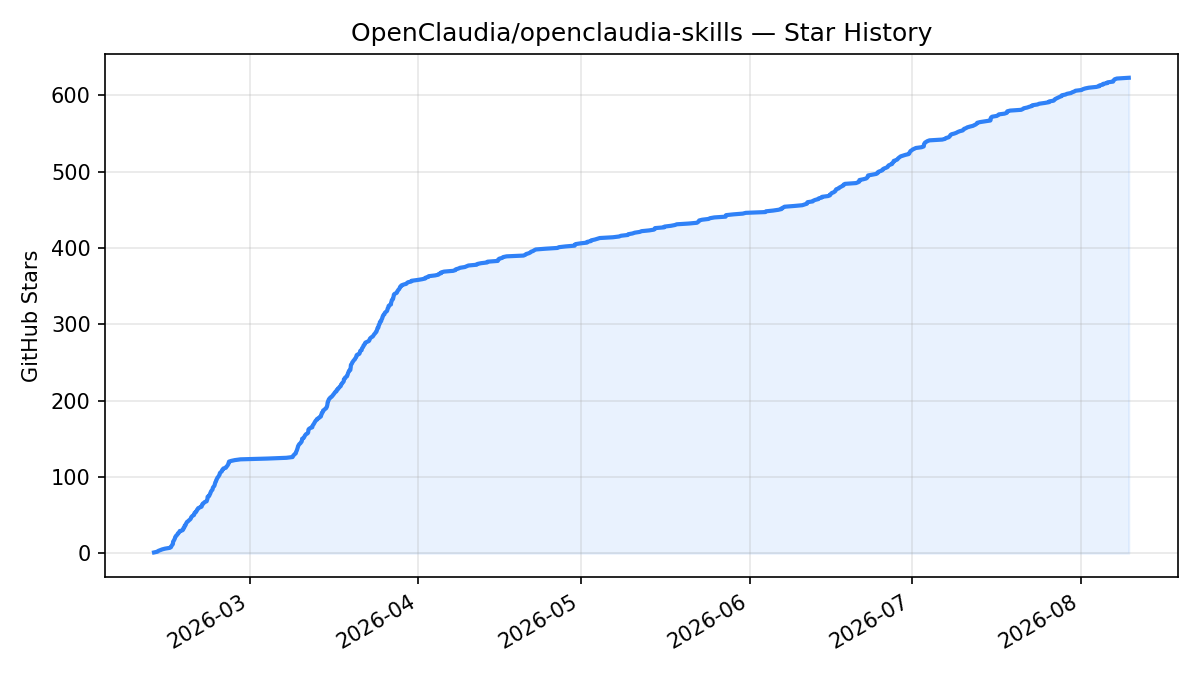
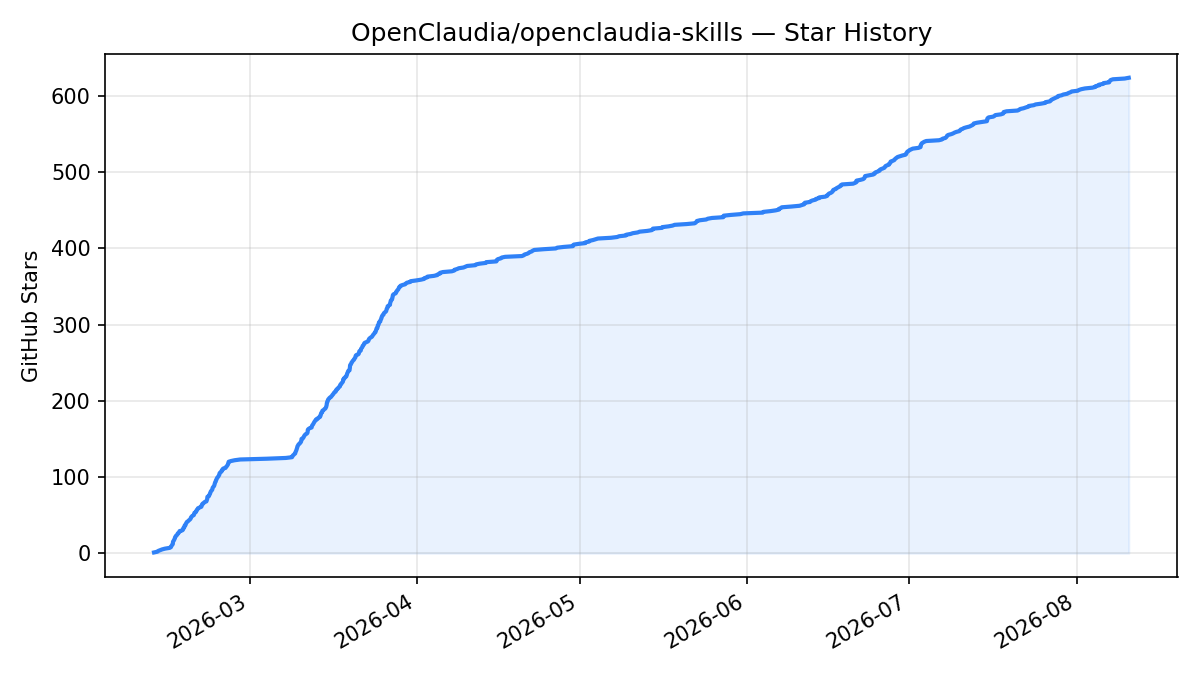
readme: refresh star chart (624 stars)

diff --git a/README.md b/README.md
@@ -330,7 +330,7 @@ MIT — see [LICENSE](LICENSE)
 
 ![Star History Chart](assets/star-history.png)
 
-<sub>Updated 2026-08-09. GitHub [restricted the stargazers API](https://github.blog/changelog/2026-06-30-upcoming-access-restrictions-to-public-api-endpoints-and-ui-views/) in June 2026, so the live star-history.com badge no longer renders; this chart is generated from the repo's own star data.</sub>
+<sub>Updated 2026-08-10. GitHub [restricted the stargazers API](https://github.blog/changelog/2026-06-30-upcoming-access-restrictions-to-public-api-endpoints-and-ui-views/) in June 2026, so the live star-history.com badge no longer renders; this chart is generated from the repo's own star data.</sub>
 
 ---
 
